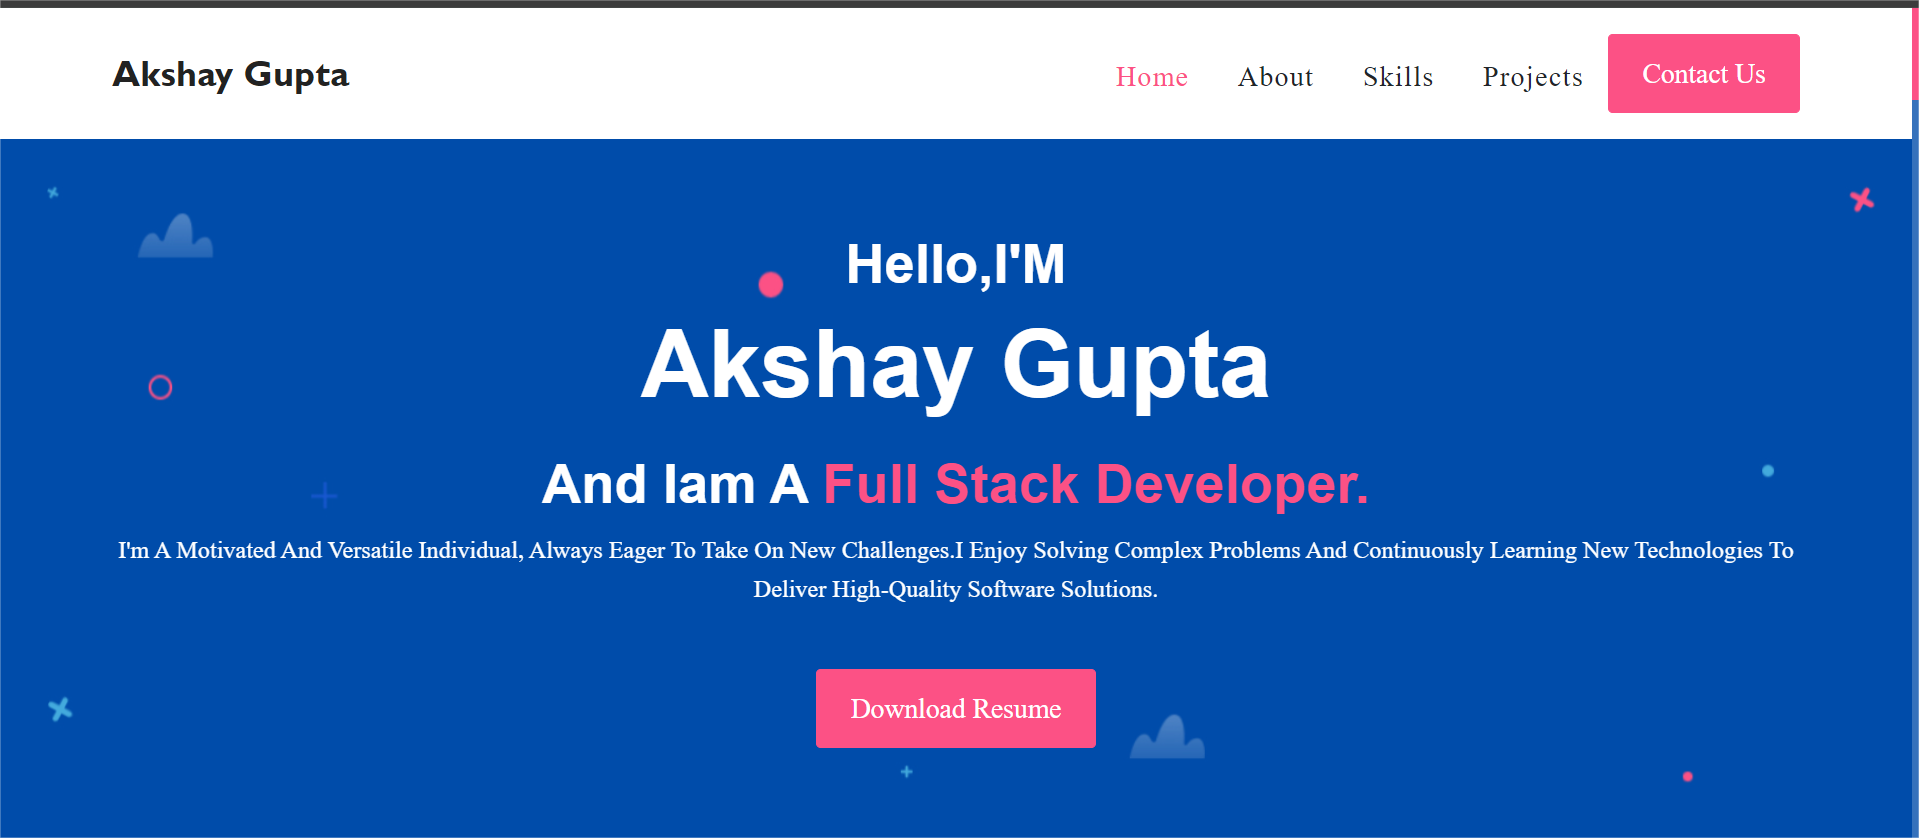
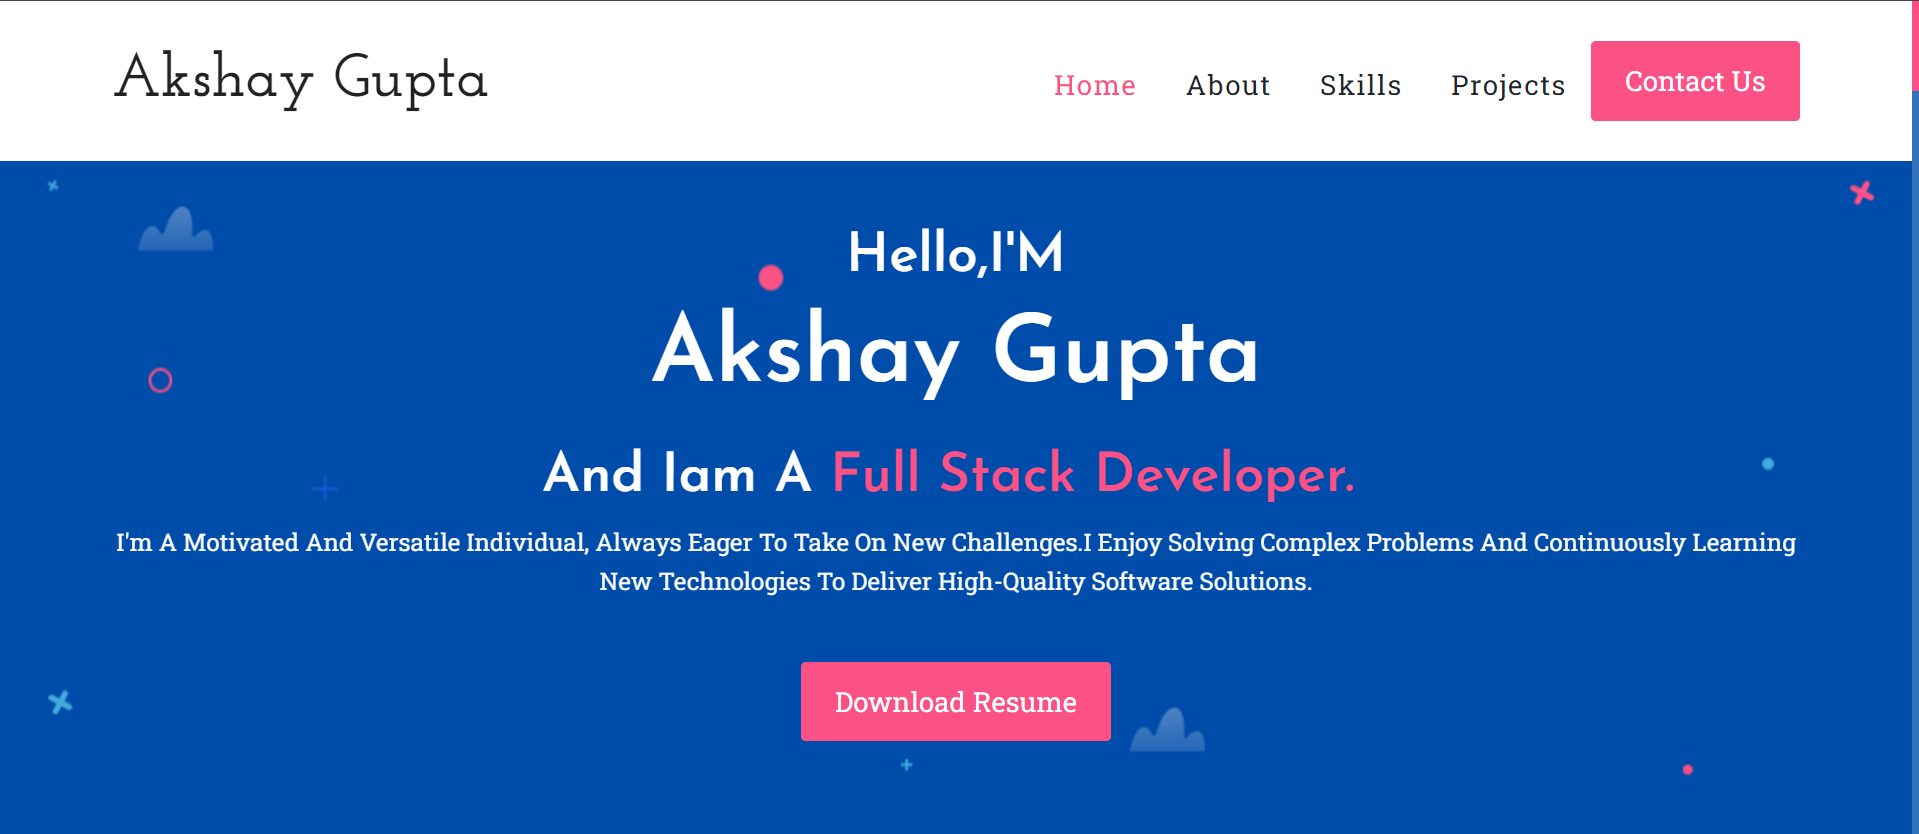
Add files via upload

diff --git a/Akshay_portfolio/index.html b/Akshay_portfolio/index.html
@@ -239,16 +239,18 @@
                                 <div class="portfolio-1">
                                     <img src="/images/hospital.png" alt="project">
                                     <div class="portfolio-layer">
-                                        <a href="#"><i class='bx bx-link-external '></i></a>
+                                        <a href="https://clinquant-tartufo-67a04b.netlify.app/"><i
+                                                class='bx bx-link-external '></i></a>
                                     </div>
                                 </div>
                                 <div class="portfolio-content">
                                     <h4 class="mt-4">Hospital Page</h4>
                                     <p>Developed and designed a responsive landing page using HTML, CSS, and
                                         JavaScript, And
-                                        bootstrap 5 focusing on user experience and mobile responsiveness.</p>
-                                    <a href="javascript:void(0)" class="main-btn mt-4 fill-btn"><i
-                                            class='bx bx-link-external'></i>Live Demo</a>
+                                        bootstrap 5 focusing on user experience and mobile responsiveness across various
+                                        devices.</p>
+                                    <a href="https://clinquant-tartufo-67a04b.netlify.app/"
+                                        class="main-btn mt-4 fill-btn"><i class='bx bx-link-external'></i>Live Demo</a>
                                     <a href="https://github.com/Akshay1234gupta/hospital-wepage"
                                         class="main-btn btn-p mt-4 ms-md-5 ms-0 "> <i class='bx bx-code-alt'></i>View
                                         Code</a>
@@ -264,7 +266,7 @@
                                 <div class="portfolio-1">
                                     <img src="/images/portfolio.png" alt="project">
                                     <div class="portfolio-layer">
-                                        <a href="#"><i class='bx bx-link-external '></i></a>
+                                        <a href="#home"><i class='bx bx-link-external '></i></a>
                                     </div>
                                 </div>
                                 <div class="portfolio-content">
@@ -273,7 +275,7 @@
                                         JavaScript, bootstrap 5
                                         showcasing projects, skills.
                                         seamless user experience across various devices.</p>
-                                    <a href="javascript:void(0)" class="main-btn mt-4 fill-btn"><i
+                                    <a href="#home" class="main-btn mt-4 fill-btn"><i
                                             class='bx bx-link-external'></i>Live Demo</a>
                                     <a href="https://github.com/Akshay1234gupta/My_portfolio"
                                         class="main-btn btn-p mt-4 ms-md-5 ms-0 "> <i class='bx bx-code-alt'></i>View
@@ -380,12 +382,15 @@
                         <div class="d-flex align-items-center">
                             <li><a href="#"><i class="fab fa-facebook-f"></i></a></li>
                             <li><a href="#"><i class="fab fa-twitter"></i></a></li>
-                            <li><a href="#"><i class="fab fa-google-plus-g"></i></a></li>
+                            <li><a href="https://www.instagram.com/_akshay_gupta_35/"><i
+                                        class="fa-brands fa-instagram"></i></i></a></li>
                         </div>
                         <div class="d-flex align-items-center">
-                            <li><a href="#"><i class="fab fa-vimeo-v"></i></a></li>
-                            <li><a href="#"><i class="fab fa-vimeo-v"></i></a></li>
-                            <li><a href="#"><i class="fab fa-vimeo-v"></i></a></li>
+                            <li><a href="https://www.linkedin.com/in/akshay-gupta-bbb974238/"><i
+                                        class="fa-brands fa-linkedin-in"></i></i></a></li>
+                            <li><a href="https://github.com/Akshay1234gupta"><i class="fa-brands fa-github"></i></a>
+                            </li>
+                            <!-- <li><a href="#"><i class="fab fa-vimeo-v"></i></a></li> -->
                         </div>
 
                     </ul>

diff --git a/Akshay_portfolio/css/style.css b/Akshay_portfolio/css/style.css
@@ -1,4 +1,7 @@
-@import url('https://fonts.googleapis.com/css2?family=Roboto%3Awght%40100%3B300%3B400%3B500%3B700%3B900&display=swap');
+/* 1 General */
+@import url('https://fonts.googleapis.com/css2?family=Josefin+Sans:wght@100;200;300;400;500;600;700&display=swap');
+@import url('https://fonts.googleapis.com/css2?family=Roboto+Slab:wght@100;200;300;400;500;600;700;900&display=swap');
+@import url('https://fonts.googleapis.com/css2?family=Josefin+Slab:ital,wght@0,100..700;1,100..700&display=swap');
 
 * {
     box-sizing: border-box;
@@ -184,12 +187,16 @@ body {
 }
 
 .navbar-brand h2 {
-    font-size: 1.5rem;
+    font-size: 2.5rem;
     display: inline-flex;
     align-items: center;
     margin-top: 0.5rem;
     justify-content: center;
-    font-family: 'Gill Sans', 'Gill Sans MT', Calibri, 'Trebuchet MS', sans-serif;
+    /* font-family: 'Gill Sans', 'Gill Sans MT', Calibri, 'Trebuchet MS', sans-serif; */
+    font-family: "Josefin Slab", serif;
+    font-optical-sizing: auto;
+    /* font-weight: <weight>; */
+    font-style: normal;
 }
 
 .navigation-wrap {
@@ -258,7 +265,6 @@ body {
 }
 
 .navigation-wrap.scroll-on .nav-link:hover,
-.navigation-wrap.nav-item .nav-link:focus,
 .navigation-wrap.scroll-on .nav-link.active {
     color: var(--secondary-text);
 }
